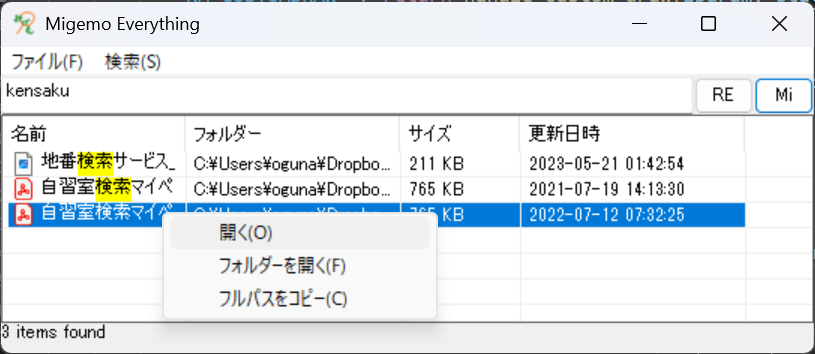
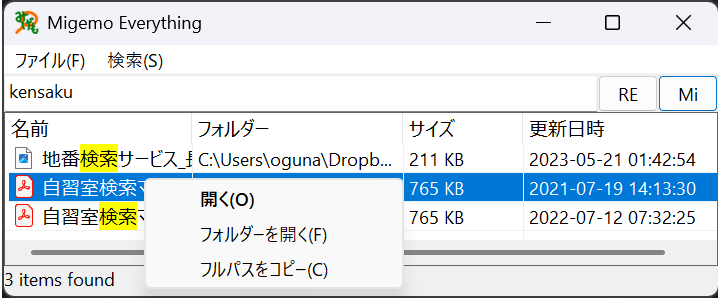
screenshotおよびreadmeの更新

diff --git a/README.md b/README.md
@@ -10,6 +10,8 @@ cargo build --release
 
 ## 実行方法
 実行ファイルと同じフォルダに、`Everything64.dll`と`migemo-compact-dict`があることを確認してください。
+`Everything64.dll`は、リリース用の配布ファイルに含まれています。
+`migemo-compact-dict`は、migemo-dictの[配布サイト](https://github.com/oguna/yet-another-migemo-dict)からダウンロードしてください。
 また、Everythingが実行中であることも確認してください。
 
 `migemo-everything.exe`を起動すると、画面が表示されます。
